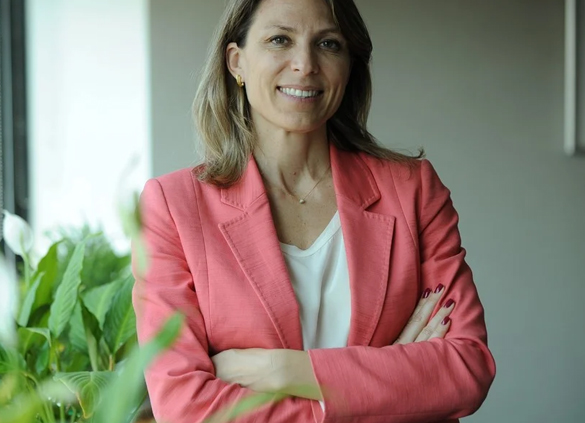
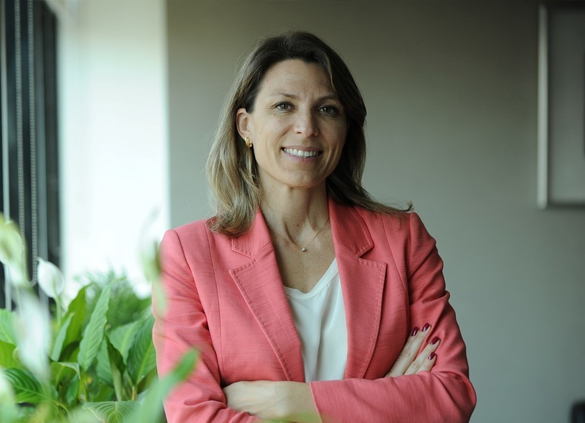
Nueva foto Costantini | Ancho header popup corregido

diff --git a/index.html b/index.html
@@ -12,13 +12,13 @@
     integrity="sha512-OTcub78R3msOCtY3Tc6FzeDJ8N9qvQn1Ph49ou13xgA9VsH9+LRxoFU6EqLhW4+PKRfU+/HReXmSZXHEkpYoOA=="
     crossorigin="anonymous" />
   <link rel="stylesheet" href="https://www.nespresso.com/ecom/medias/sys_master/public/13569793359902/jquery-ui.css?">
-  <link rel="stylesheet" href="./css/main.css">
+  <link rel="stylesheet" href="css/main.css">
   <link rel="stylesheet" href="https://www.nespresso.com/ecom/medias/sys_master/public/13569793753118/animate.css?">
 
   <script src="https://www.nespresso.com/ecom/medias/sys_master/public/13569947664414/jquery.js"></script>
   <script src="https://www.nespresso.com/ecom/medias/sys_master/public/13569947926558/owl-carousel.js"></script>
-  <script src="./js/angularjs.js"></script>
-  <script src="./js/app.js"></script>
+  <script src="https://www.nespresso.com/ecom/medias/sys_master/public/13569935507486/angularjs.js"></script>
+  <script src="https://www.nespresso.com/ecom/medias/sys_master/public/13651370311710/appv3.js"></script>
 </head>
 
 <body>
@@ -154,8 +154,8 @@
                   <p> <strong>¿Cómo potenciar el poder de las capacidades humanas en este nuevo auge digital?</strong>
                   </p>
 
-                  <button data-evento="inteligencia" data-content="info" class="down open-dialog"
-                    aria-label="Ver infografía">Ver infografía</button>
+					  <button id="verinfografia_inteligencia" data-evento="inteligencia" data-content="info" class="down open-dialog"
+						aria-label="Ver infografía">Ver infografía</button>
                 </div>
 
               </div>
@@ -174,10 +174,10 @@
                       una posibilidad nueva, una salida que no fue pensada."</h3>
                   </div>
 
-                  <button data-evento="inteligencia" data-content="podcast" class="speak open-dialog"
+                  <button id="escucharpodcast_manes" data-evento="inteligencia" data-content="podcast" class="speak open-dialog"
                     aria-label="Escuchá el Podcast">Escuchá el Podcast</button>
                   
-                  <button data-evento="inteligencia" data-content="paper" class="down open-dialog"
+                  <button id="descargarpaper_manes" data-evento="inteligencia" data-content="paper" class="down open-dialog"
                     aria-label="Descargá el Paper">Descargá el
                     Paper</button>
                 </div>
@@ -214,7 +214,7 @@
                   </p>
                   <p> Los líderes que estaban muy listos ayer,<br> <strong>¿están preparados hoy? ¿Lo estarán mañana? </strong>
                   </p>
-                  <button data-evento="skill" data-content="info" class="down open-dialog"
+                  <button id="verinfografia_upskilling" data-evento="skill" data-content="info" class="down open-dialog"
                     aria-label="Ver infografía">Ver infografía</button>
                  
                 </div>
@@ -225,7 +225,7 @@
             </div>
             <div class="item-grid">
               <div class="picture">
-                <img src="images/encuentros_costantini.jpg"
+                <img src="./images/encuentros_costantini.jpg?"
                   alt="">
               </div>
               <div class="text">
@@ -236,7 +236,7 @@
                     <h3 class="quote">"La clave es reconocer que uno nunca es sino que uno siempre está."</h3>
                   </div>
 
-                  <button data-evento="skill" data-content="podcast" class="speak open-dialog"
+                  <button id="escucharpodcast_costantini" data-evento="skill" data-content="podcast" class="speak open-dialog"
                     aria-label="Escuchá el Podcast">Escuchá el Podcast</button>
                   
                   <!-- <button data-evento="skill" data-content="paper" class="down open-dialog"
@@ -254,7 +254,7 @@
         <div class="dialog-form" id="dialog-steps">
           <!-- multistep form -->
           <form action="https://www.nespresso.com/ebm/index.php" method="POST" id="form2">
-            <input type="hidden" name="to[]" value="promosecommerce@nespresso.com" />
+            <input type="hidden" name="to[]" value="nespresso@ofidirect.com" />
             <input type="hidden" name="market" value="AR" />
             <input type="hidden" name="campaign" value="Open Coffee Work" />
             <!-- progressbar -->
@@ -291,31 +291,36 @@
                 <div class="background"></div>
                 <div class="formulario">
 
-                  <div class="campo">
+                 <div class="campo">
                     <label for="name">Nombre</label>
-                    <input type="text" name="NAME" placeholder="" id="mce-NOMBRE" required="">
+                    <input type="text" name="NAME" placeholder="" id="mce-NOMBRE" required
+                  oninvalid="this.setCustomValidity('Campo obligatorio')" oninput="this.setCustomValidity('')" >
                   </div>
                   <div class="campo">
                     <label for="lname">Apellido</label>
-                    <input type="text" name="SURNAME" placeholder="" id="mce-APELLIDO" required="">
+                    <input type="text" name="SURNAME" placeholder="" id="mce-APELLIDO" required
+                  oninvalid="this.setCustomValidity('Campo obligatorio')" oninput="this.setCustomValidity('')" >
                   </div>
                   <div class="campo">
                     <label for="lname">Teléfono</label>
-                    <input type="text" name="Telefono" placeholder="" id="mce-TELEFONO">
+                    <input type="text" name="Telefono" placeholder="" id="mce-TELEFONO" required
+                  oninvalid="this.setCustomValidity('Campo obligatorio')" oninput="this.setCustomValidity('')" >
                   </div>
                   <div class="campo">
                     <label for="lname">Email</label>
                     <input type="email" class="form-control" id="exampleInputEmail1" aria-describedby="emailHelp"
                       name="EMAIL" placeholder="" id="mce-EMAIL" required
-                      oninvalid="this.setCustomValidity('Por favor ingresá un email correcto')">
+                  oninvalid="this.setCustomValidity('Por favor ingresá un email correcto')" oninput="this.setCustomValidity('')" >
                   </div>
                   <div class="campo">
                     <label for="empresa">Empresa</label>
-                    <input type="text" name="EMPRESA" placeholder="" id="mce-Empresa" required="">
+                    <input type="text" name="EMPRESA" placeholder="" id="mce-Empresa" required
+                  oninvalid="this.setCustomValidity('Campo obligatorio')" oninput="this.setCustomValidity('')" >
                   </div>
                   <div class="campo">
                     <label for="comments">Comentarios</label>
-                    <input type="text" cols="30" rows="4" name="COMENTARIO" placeholder="" id="mce-Comentarios"></input>
+                    <input type="text" cols="30" rows="4" name="COMENTARIO" placeholder="" id="mce-Comentarios" required
+                  oninvalid="this.setCustomValidity('Campo obligatorio')" oninput="this.setCustomValidity('')" ></input>
                   </div>
                   <h4 class="aviso">Si ya completaste el formulario con tus datos solicitando el material, no hace falta
                     volverlo
@@ -354,36 +359,41 @@
         <div class="form">
           <div class="background"></div>
           <div class="formulario">
-            <form action="https://www.nespresso.com/ebm/index.php" method="POST" id="form">
-              <input type="hidden" name="to[]" value="promosecommerce@nespresso.com" />
+             <form action="https://www.nespresso.com/ebm/index.php" method="POST" id="form">
+              <input type="hidden" name="to[]" value="nespresso@ofidirect.com" />
               <input type="hidden" name="market" value="AR" />
               <input type="hidden" name="campaign" value="Open Coffee Work" />
               <div class="campo">
-                <label for="name">Nombre</label>
-                <input type="text" name="NAME" placeholder="" id="mce-NOMBRE" required="">
-              </div>
-              <div class="campo">
-                <label for="lname">Apellido</label>
-                <input type="text" name="SURNAME" placeholder="" id="mce-APELLIDO" required="">
-              </div>
-              <div class="campo">
-                <label for="lname">Teléfono</label>
-                <input type="text" name="Telefono" placeholder="" id="mce-TELEFONO">
-              </div>
-              <div class="campo">
-                <label for="lname">Email</label>
-                <input type="email" class="form-control" id="exampleInputEmail1" aria-describedby="emailHelp"
-                  name="EMAIL" placeholder="" id="mce-EMAIL" required
-                  oninvalid="this.setCustomValidity('Por favor ingresá un email correcto')">
-              </div>
-              <div class="campo">
-                <label for="empresa">Empresa</label>
-                <input type="text" name="EMPRESA" placeholder="" id="mce-Empresa" required="">
-              </div>
-              <div class="campo">
-                <label for="comments">Comentarios</label>
-                <input type="text" cols="30" rows="4" name="COMENTARIO" placeholder="" id="mce-Comentarios"></input>
-              </div>
+                    <label for="name">Nombre</label>
+                    <input type="text" name="NAME" placeholder="" id="mce-NOMBRE" required
+                  oninvalid="this.setCustomValidity('Campo obligatorio')" oninput="this.setCustomValidity('')" >
+                  </div>
+                  <div class="campo">
+                    <label for="lname">Apellido</label>
+                    <input type="text" name="SURNAME" placeholder="" id="mce-APELLIDO" required
+                  oninvalid="this.setCustomValidity('Campo obligatorio')" oninput="this.setCustomValidity('')" >
+                  </div>
+                  <div class="campo">
+                    <label for="lname">Teléfono</label>
+                    <input type="text" name="Telefono" placeholder="" id="mce-TELEFONO" required
+                  oninvalid="this.setCustomValidity('Campo obligatorio')" oninput="this.setCustomValidity('')" >
+                  </div>
+                  <div class="campo">
+                    <label for="lname">Email</label>
+                    <input type="email" class="form-control" id="exampleInputEmail1" aria-describedby="emailHelp"
+                      name="EMAIL" placeholder="" id="mce-EMAIL" required
+                  oninvalid="this.setCustomValidity('Por favor ingresá un email correcto')" oninput="this.setCustomValidity('')" >
+                  </div>
+                  <div class="campo">
+                    <label for="empresa">Empresa</label>
+                    <input type="text" name="EMPRESA" placeholder="" id="mce-Empresa" required
+                  oninvalid="this.setCustomValidity('Campo obligatorio')" oninput="this.setCustomValidity('')" >
+                  </div>
+                  <div class="campo">
+                    <label for="comments">Comentarios</label>
+                    <input type="text" cols="30" rows="4" name="COMENTARIO" placeholder="" id="mce-Comentarios" required
+                  oninvalid="this.setCustomValidity('Campo obligatorio')" oninput="this.setCustomValidity('')" ></input>
+                  </div>
               <h4 class="aviso">Si ya completaste el formulario con tus datos solicitando el material, no hace falta
                 volverlo
                 a hacer.</h4>
@@ -400,7 +410,7 @@
 
   </div>
 
-  <script src="./js/events.js"></script>
+  <script src="https://www.nespresso.com/ecom/medias/sys_master/public/13699920363550/eventsV9.js"></script>
 
   <script>
     "use strict";
@@ -480,7 +490,7 @@
     });
   </script>
   <!-- JS -->
-  <script>
+   <script>
     $("#form").submit(function (event) {
       event.preventDefault();
       gtmDataObject.push({
@@ -492,14 +502,14 @@
       $.post($(this).attr("action"), $("#form").serialize())
         .done(function (data) {
           /*if (data==1) {alert("ok");} else {alert( "second success "+data);}*/
-          window.location = 'https://www.nespresso.com/ar/es/open-coffee-work-nespresso-professional';
+          window.location = 'https://www.nespresso.com/pro/ar/es/open-coffee-work-nespresso-professional';
         })
         .fail(function (data) {
           console.log("error " + data);
         })
         .always(function () {
           alert("Gracias por registrarse. Serás contactado a la brevedad.");
-          window.location = 'https://www.nespresso.com/ar/es/open-coffee-work-nespresso-professional';
+          window.location = 'https://www.nespresso.com/pro/ar/es/open-coffee-work-nespresso-professional';
         });
     });
   </script>
@@ -516,17 +526,69 @@
       $.post($(this).attr("action"), $("#form2").serialize())
         .done(function (data) {
           /*if (data==1) {alert("ok");} else {alert( "second success "+data);}*/
-          window.location = 'https://www.nespresso.com/ar/es/open-coffee-work-nespresso-professional';
+          window.location = 'https://www.nespresso.com/pro/ar/es/open-coffee-work-nespresso-professional';
         })
         .fail(function (data) {
           console.log("error " + data);
         })
         .always(function () {
           alert("Gracias por registrarse. Serás contactado a la brevedad.");
-          window.location = 'https://www.nespresso.com/ar/es/open-coffee-work-nespresso-professional';
+          window.location = 'https://www.nespresso.com/pro/ar/es/open-coffee-work-nespresso-professional';
         });
     });
   </script>
+   <script>
+    $("#verinfografia_inteligencia").submit(function (event) {
+      event.preventDefault();
+      gtmDataObject.push({
+        'event': 'customEvent', //This is required here
+        'eventCategory': 'User Engagement', //This is required and critical
+        'eventAction': 'Click Ver Infografia Inteligencia', //This is required and critical, name of the action
+        'eventLabel': 'Ver Infografia Inteligencia', // Put here any description of the action in order to identify this event in GA
+      });
+	</script>
+	   <script>
+    $("#verinfografia_upskilling").submit(function (event) {
+      event.preventDefault();
+      gtmDataObject.push({
+        'event': 'customEvent', //This is required here
+        'eventCategory': 'User Engagement', //This is required and critical
+        'eventAction': 'Click Ver Infografia Upskilling', //This is required and critical, name of the action
+        'eventLabel': 'Ver Infografia Upskilling', // Put here any description of the action in order to identify this event in GA
+      });
+	</script>
+		   <script>
+    $("#escucharpodcast_manes").submit(function (event) {
+      event.preventDefault();
+      gtmDataObject.push({
+        'event': 'customEvent', //This is required here
+        'eventCategory': 'User Engagement', //This is required and critical
+        'eventAction': 'Click Escuchar Podcast Manes', //This is required and critical, name of the action
+        'eventLabel': 'Escuchar Podcast Manes', // Put here any description of the action in order to identify this event in GA
+      });
+	</script>
+		   <script>
+    $("#descargarpaper_manes").submit(function (event) {
+      event.preventDefault();
+      gtmDataObject.push({
+        'event': 'customEvent', //This is required here
+        'eventCategory': 'User Engagement', //This is required and critical
+        'eventAction': 'Click Descargar Paper Manes', //This is required and critical, name of the action
+        'eventLabel': 'Descargar Paper Manes', // Put here any description of the action in order to identify this event in GA
+      });
+	</script>
+			   <script>
+    $("#escucharpodcast_costantini").submit(function (event) {
+      event.preventDefault();
+      gtmDataObject.push({
+        'event': 'customEvent', //This is required here
+        'eventCategory': 'User Engagement', //This is required and critical
+        'eventAction': 'Click Escuchar Podcast Costantini', //This is required and critical, name of the action
+        'eventLabel': 'Escuchar Podcast Costantini', // Put here any description of the action in order to identify this event in GA
+      });
+	</script>
+	
+	
 </body>
 
 </html>

diff --git a/css/main.css b/css/main.css
@@ -968,6 +968,10 @@ form button {
     flex-direction: row-reverse;
   }
 
+  .dialog-form#dialog-steps {
+    min-width: 440px;
+  }
+
   .ui-dialog .ui-dialog-titlebar {
     height: 122px;
   }
